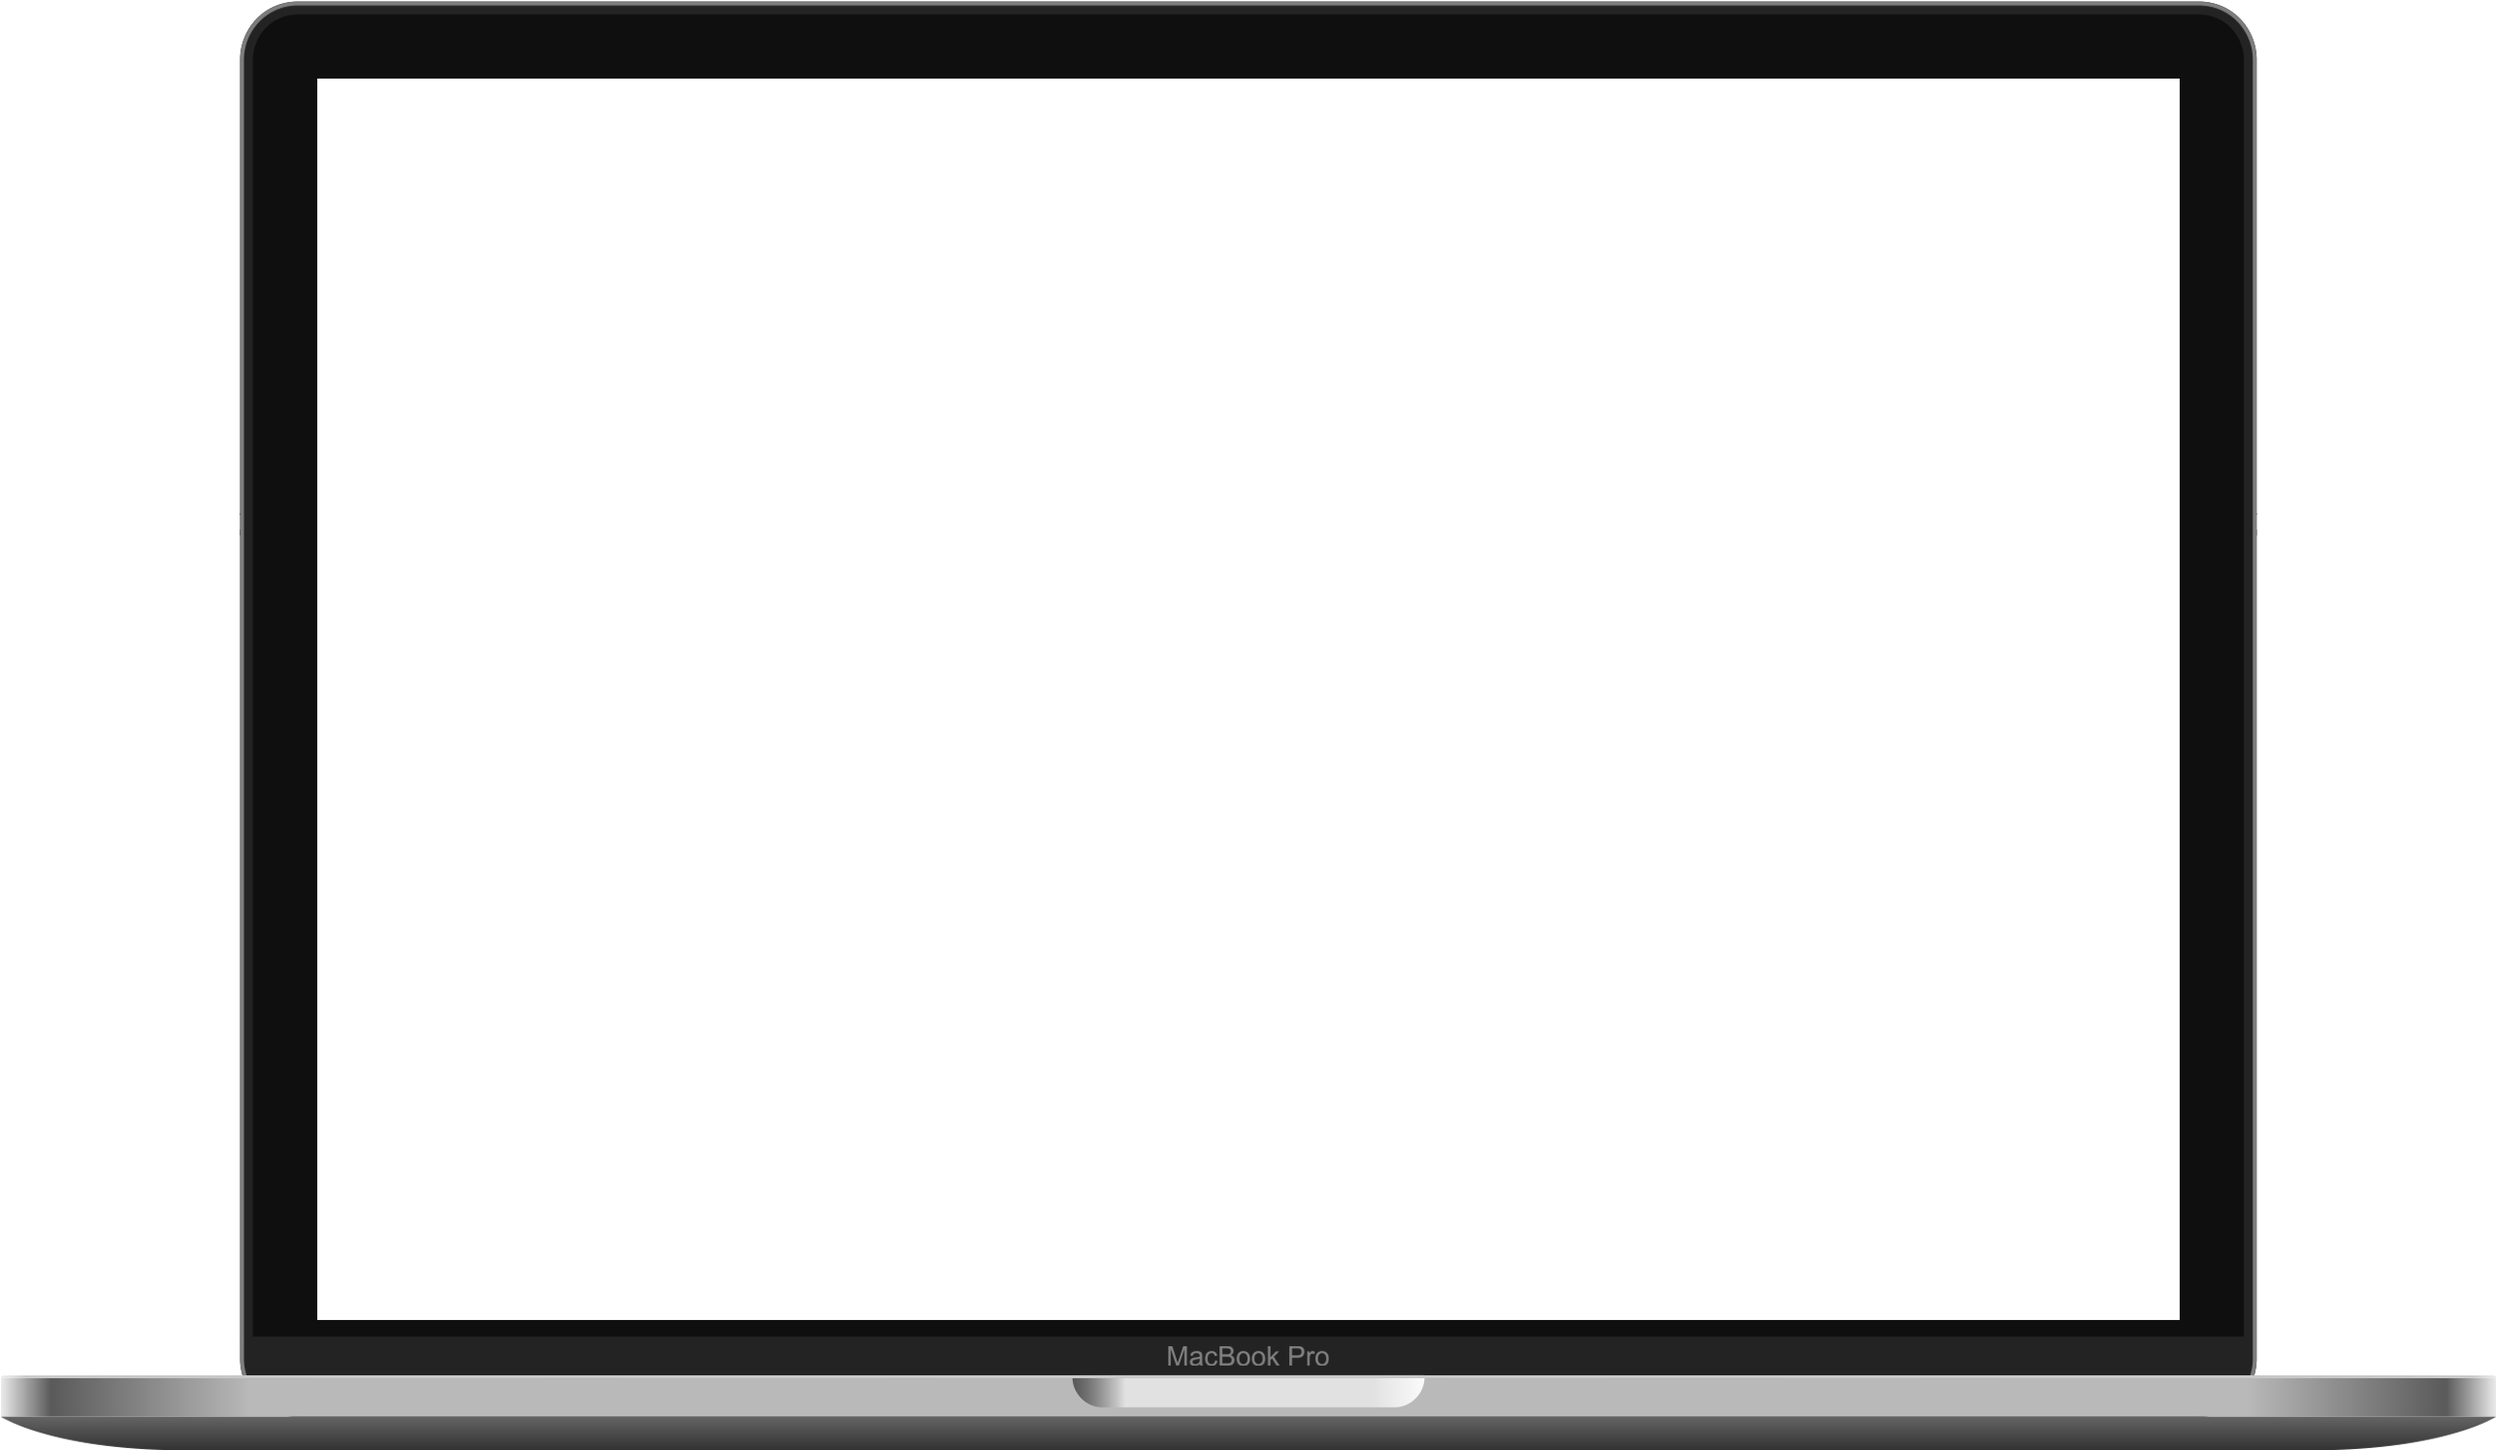
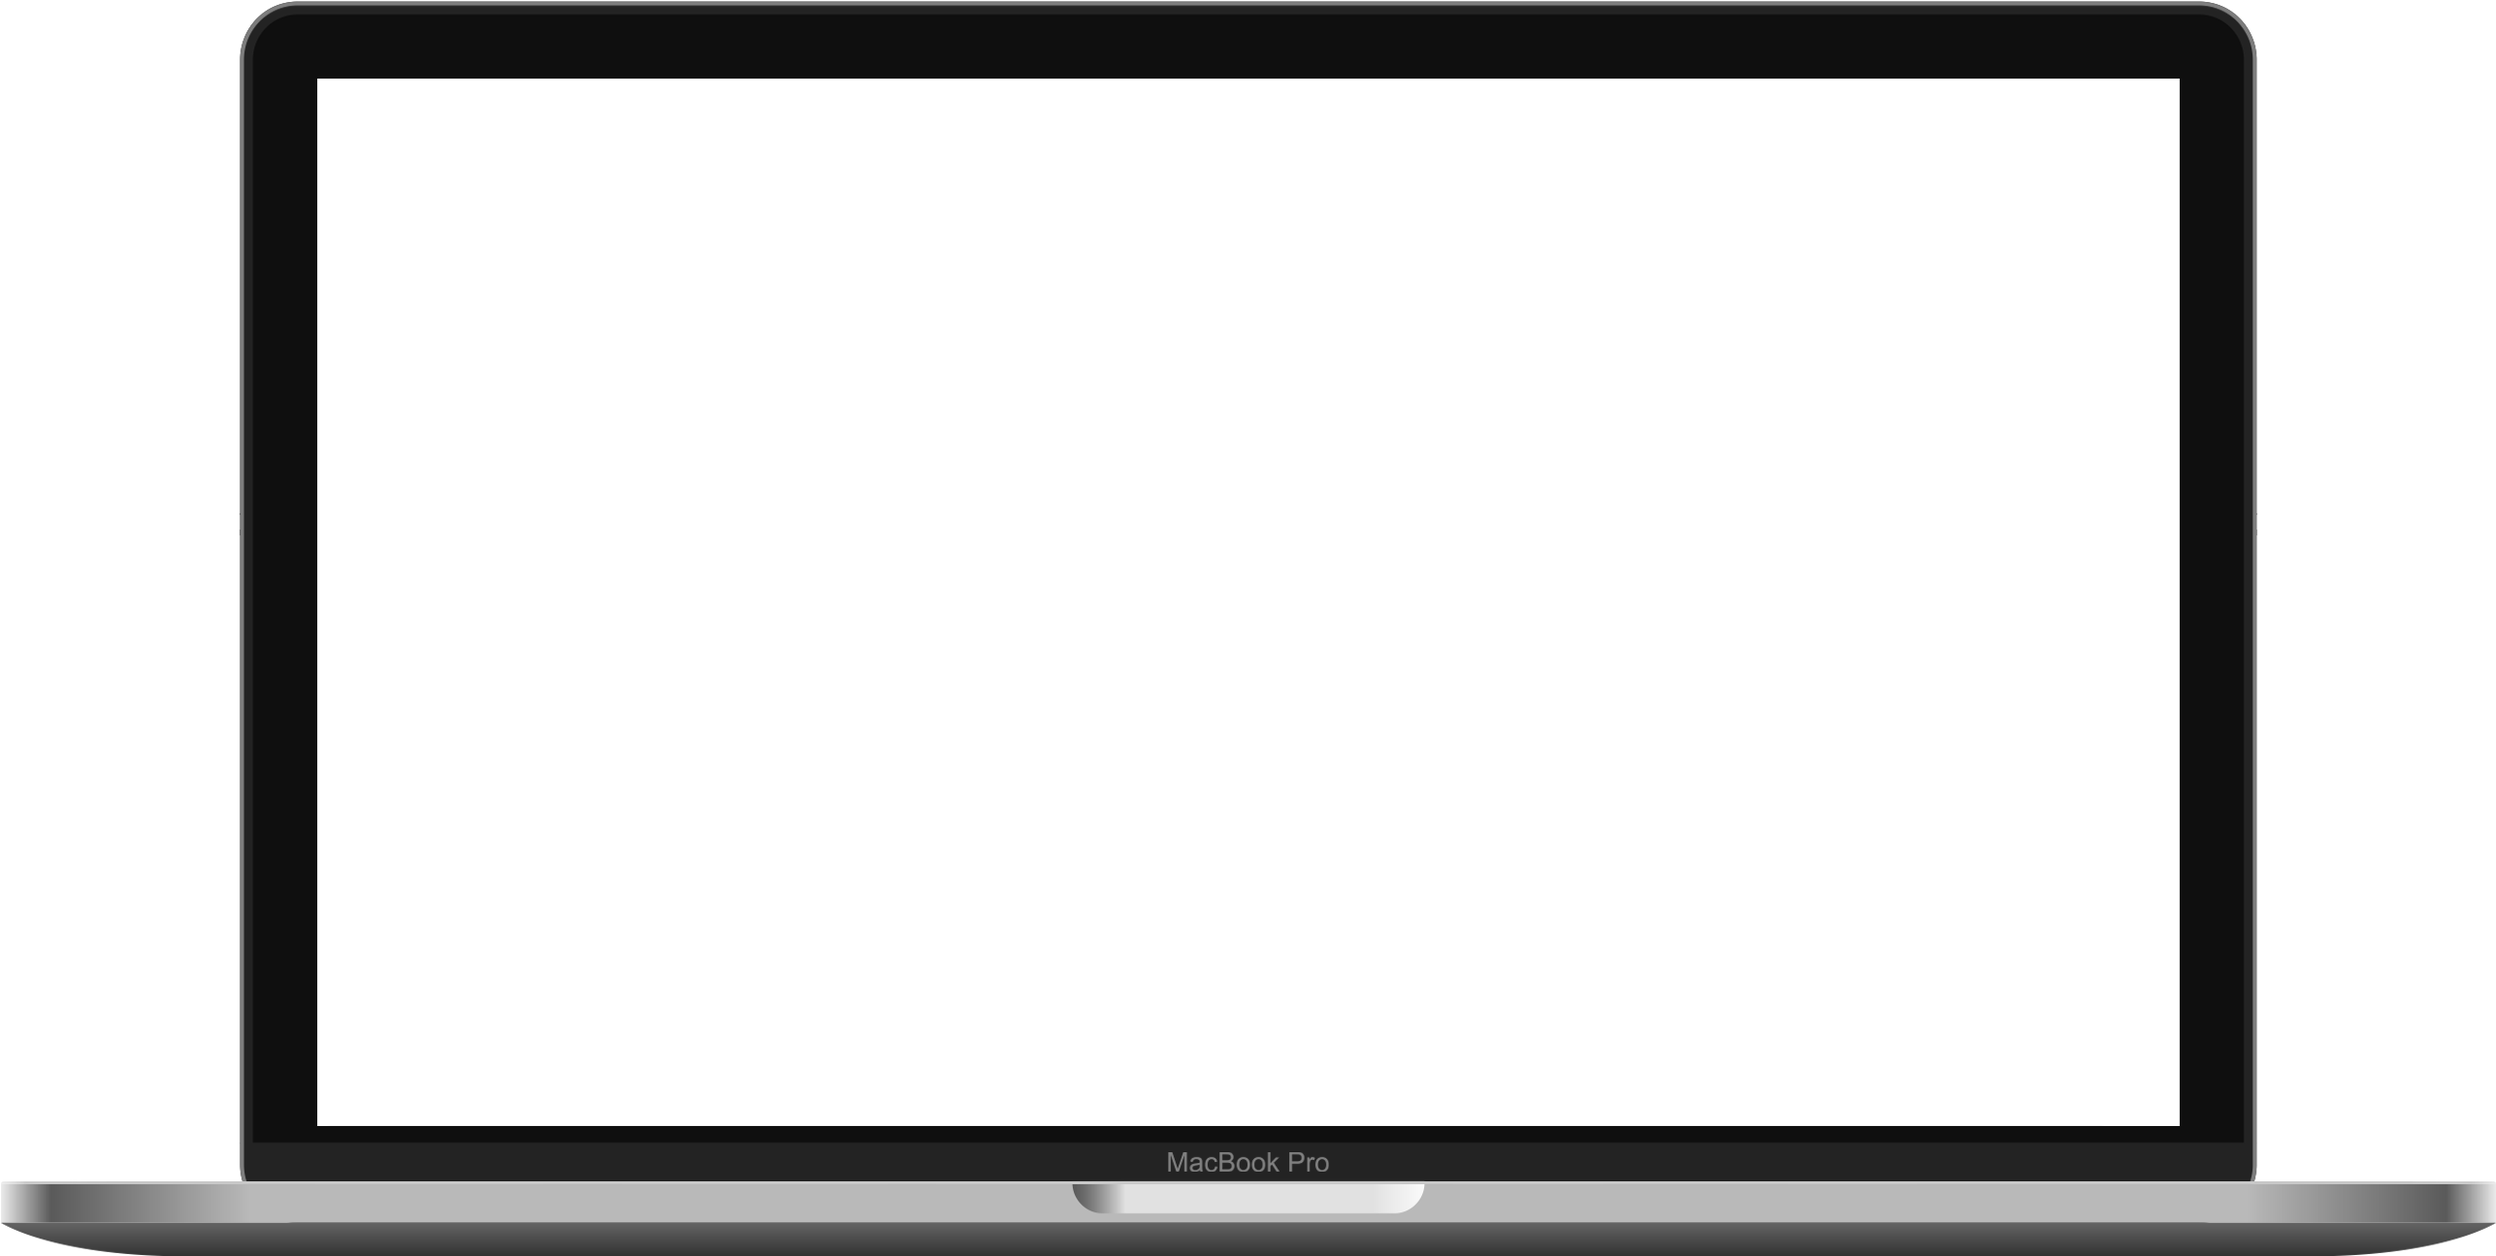
Simplify video player & a11y fixes

Changed region(s): [[0.0, 0.8958, 1.0, 1.0], [0.1244, 0.0309, 0.8706, 0.0618]]

diff --git a/src/components/videoPlayer.tsx b/src/components/videoPlayer.tsx
@@ -1,18 +1,19 @@
 "use client"
 
-import { type RefObject, useCallback, useEffect, useMemo, useRef, useState } from "react"
+import { useCallback, useMemo, useState } from "react"
 
 import Image from "next/image"
 
-import { FontAwesomeIcon } from "@fortawesome/react-fontawesome"
-import { faDisplay, faMobileScreen, faPause, faPlay, type IconDefinition } from "@fortawesome/free-solid-svg-icons"
+import { useTranslations } from "next-intl"
+
+import { faDisplay, faMobileScreen } from "@fortawesome/free-solid-svg-icons"
 
 import { usePrefersReducedMotionContext } from "@/context/reducedMotion"
 
+import Switch from "./switch"
+
 import macbookImage from "@/../public/imgs/macbook.png"
 import iphoneImage from "@/../public/imgs/iphone.png"
-import Switch from "./switch"
-import { useTranslations } from "next-intl"
 
 type Video = { src: string, poster: string }
 
@@ -21,67 +22,26 @@ export type Videos = { desktop: Video, mobile: Video }
 interface VideoPlayerProps { videos: Videos }
 
 function VideoPlayer({ videos }: VideoPlayerProps) {
-  const [displayMode, setDisplayMode] = useState<"desktop"|"mobile">("desktop")
-  const videoDesktopRef = useRef<HTMLVideoElement>(null)
-  const videoMobileRef = useRef<HTMLVideoElement>(null)
-  const [buttonIcon, setButtonIcon] = useState<IconDefinition>(faPlay)
+  const [mobileView, setMobileView] = useState(false)
   const { prefersReducedMotion } = usePrefersReducedMotionContext()
   const t = useTranslations()
 
-  function handlePlay() { setButtonIcon(faPause) }
-  function handlePause() { setButtonIcon(faPlay) }
-
   const switchAriaLabel = useMemo(() => (
-    displayMode === "desktop" ? t("Labels.show-mobile-video") : t("Labels.show-desktop-video")
-  ), [displayMode, t])
-
-  const setVideoEventHandlers = useCallback((videoRef: RefObject<HTMLVideoElement | null>) => {
-    const videoElement = videoRef.current
-    videoElement?.addEventListener("play", handlePlay)
-    videoElement?.addEventListener("pause", handlePause)
-    return () => {
-      videoElement?.removeEventListener("play", handlePlay)
-      videoElement?.removeEventListener("pause", handlePause)
-    }
-  }, [])
+    mobileView ? t("Labels.show-desktop-video") : t("Labels.show-mobile-video")
+  ), [mobileView, t])
 
   const toggleDisplay = useCallback(() => {
-    setDisplayMode((current) => current === "desktop" ? "mobile" : "desktop")
+    setMobileView((current) => current ? false : true)
   }, [])
 
-  useEffect(() => setVideoEventHandlers(videoDesktopRef), [videoDesktopRef, setVideoEventHandlers])
-  useEffect(() => setVideoEventHandlers(videoMobileRef), [videoMobileRef, setVideoEventHandlers])
-
   return (
-    <div className={`video video--${displayMode}`}>
-      <Switch className="video__switch" ariaLabel={switchAriaLabel} leftIcon={faDisplay} rightIcon={faMobileScreen} onChange={toggleDisplay} state={displayMode === "mobile" ? "right" : "left"} />
-      <div className="video-wrapper-desktop">
-        <div className="video__frame-wrapper">
-          <Image className="video__frame" src={macbookImage} height={700} width={700} alt="" />
-          <button className="video__control" type="button" onClick={() => videoDesktopRef.current?.paused ? videoDesktopRef.current?.play(): videoDesktopRef.current?.pause() }>
-            <span className="video__control__content">
-              <FontAwesomeIcon icon={buttonIcon} />
-            </span>
-          </button>
-        </div>
-        <video ref={videoDesktopRef} className="video__player" poster={videos.desktop.poster} autoPlay={!prefersReducedMotion} muted loop>
-          <source src={videos.desktop.src} type="video/webm" />
-          <Image src={videos.desktop.poster} alt="" height={200} width={200} />
+    <div className={`video video--${mobileView ? "mobile" : "desktop"}`}>
+      <Switch className="video__switch" ariaLabel={switchAriaLabel} leftIcon={faDisplay} rightIcon={faMobileScreen} onChange={toggleDisplay} state={mobileView ? "right" : "left"} />
+      <div className={`video__wrapper video__wrapper--${mobileView ? "mobile" : "desktop"}`}>
+        <Image className="video__frame" src={mobileView ? iphoneImage : macbookImage} height={700} width={700} alt="" />
+        <video key={mobileView ? "mobile" : "desktop"} controls className="video__player" poster={videos[mobileView ? "mobile" : "desktop"].poster} autoPlay={!prefersReducedMotion} muted loop>
+          <source src={videos[mobileView ? "mobile" : "desktop"].src} type="video/webm" />
         </video> 
-      </div>
-      <div className="video-wrapper-mobile">
-        <div className="video__frame-wrapper">
-          <Image className="video__frame" src={iphoneImage} height={700} width={700} alt="" />
-          <button className="video__control" type="button" onClick={() => videoMobileRef.current?.paused ? videoMobileRef.current?.play(): videoMobileRef.current?.pause() }>
-            <span className="video__control__content">
-              <FontAwesomeIcon icon={buttonIcon} />
-            </span>
-          </button>
-        </div>
-        <video ref={videoMobileRef} className="video__player" poster={videos.mobile.poster} autoPlay={!prefersReducedMotion} muted loop>
-          <source src={videos.mobile.src} type="video/webm" />
-          <Image src={videos.mobile.poster} alt="" height={200} width={200} />
-        </video>
       </div>
     </div>
   )

diff --git a/src/styles/components/videoPlayer.css b/src/styles/components/videoPlayer.css
@@ -5,160 +5,36 @@
   gap: 1rem;
 }
 
-.video-wrapper-desktop {
+.video__wrapper {
   position: relative;
 }
 
-.video-wrapper-mobile {
+.video__wrapper--mobile {
   margin: 0 auto;
-  position: relative;
-  width: fit-content;
-}
-
-.video__frame-wrapper {
-  margin: 0 auto;
-  position: relative;
-  width: fit-content;
+  max-width: 320px;
 }
 
 .video__frame {
   display: block;
-  height: 344px;
   margin: auto;
   pointer-events: none;
   position: relative;
-  z-index: 2;
+  width: 100%;
+  z-index: 0;
 }
 
 .video__player {
-  border: 3px solid transparent;
-  height: 301px;
-  left: 0;
+  left: 12.4%;
   position: absolute;
-  top: 15px;
-  width: 100%;
-}
-
-.video__control {
-  background-color: transparent;
-  border: 0;
-  inset: 0;
-  margin: 20px 90px;
-  padding: 0;
-  position: absolute;
-  z-index: 1;
-}
-
-.video__control__content {
-  align-items: center;
-  background-color: #eae7dc;
-  border: 0;
-  border-top-right-radius: 10px;
-  bottom: 10px;
-  color: #000;
-  display: flex;
-  font-size: 1rem;
-  height: 2rem;
-  justify-content: center;
-  left: -1px;
-  line-height: 1;
-  padding: 0;
-  position: absolute;
-  width: 2rem;
-}
-
-/* Desktop video display */
-
-.video--desktop .video-wrapper-desktop {
-  display: block;
-}
-
- .video--desktop .video-wrapper-mobile {
-  display: none;
-}
-
-/* Mobile video display */
-
-.video--mobile .video-wrapper-desktop {
- display: none;
-}
-
-.video--mobile .video-wrapper-mobile {
- display: block;
-}
-
-.video--mobile .video__frame {
-  height: auto;
-  width: 200px;
+  top: 5.7%;
+  width: 75.4%;
 }
 
 .video--mobile .video__player {
-  border-bottom-left-radius: 20px;
-  border-bottom-right-radius: 20px;
-  height: 373px;
-  left: 8px;
+  border-bottom-left-radius: 40px;
+  border-bottom-right-radius: 40px;
+  left: 5.7%;
   overflow: hidden;
-  top: 30px;
-  width: unset;
-}
-
-.video--mobile .video__control {
-  margin: 0;
-}
-
-.video--mobile .video__control__content {
-  background-color: #fff;
-  border-bottom-left-radius: 30%;
-  border-bottom-right-radius: 30%;
-  border-top: 1px solid #d3d3d3;
-  border-top-right-radius: 0;
-  bottom: 10px;
-  box-shadow: 0 -2px 11px #0003;
-  left: 10px;
-  width: 178px;
-}
-
-@media (width < 875px) {
-  .video__switch {
-    display: none;
-  }
-
-  .video-wrapper-desktop {
-    display: none !important;
-  }
-
-  .video-wrapper-mobile {
-    display: block !important;
-  }
-
-  .video__frame {
-    height: auto;
-    width: 200px;
-  }
-
-  .video__player {
-    border-bottom-left-radius: 20px;
-    border-bottom-right-radius: 20px;
-    height: 373px;
-    left: 8px;
-    overflow: hidden;
-    top: 30px;
-    width: unset;
-  }
-
-  .video__control {
-    margin: 0;
-  }
-
-  .video__control__content {
-    background-color: #fff;
-    border-bottom-left-radius: 30%;
-    border-bottom-right-radius: 30%;
-    border-top: 1px solid #d3d3d3;
-    border-top-right-radius: 0;
-    bottom: 10px;
-    box-shadow: 0 -2px 11px #0003;
-    left: 10px;
-    width: 178px;
-  }
+  top: 8.5%;
+  width: 89.5%;
 }
